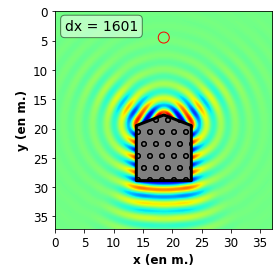
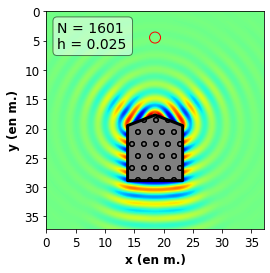
Update

diff --git a/Functions_Jie.py b/Functions_Jie.py
@@ -623,7 +623,7 @@ def Construction_A(Nx, Ny, dx, Neuf_points, k2_eau, k2_bois, gamma_eau, gamma_bo
     Coeff4 = Coeff_Frontiere(gamma_eau, gamma_bois, 0, -1)
     Coeff5 = Coeff_Frontiere(gamma_bois, gamma_eau, 1 / np.sqrt(2), -1 / np.sqrt(2))  # -ny
     Coeff6 = Coeff_Frontiere(gamma_bois, gamma_eau, 1, 0)
-    Coeff7 = Coeff_Frontiere(gamma_bois, gamma_eau, 0 / np.sqrt(2), 0 / np.sqrt(2))
+    Coeff7 = Coeff_Frontiere(gamma_bois, gamma_eau, 1 / np.sqrt(2), 1 / np.sqrt(2))
     Coeff8 = Coeff_Frontiere(gamma_bois, gamma_eau, 0, 1)
     Coeff9 = Coeff_Frontiere(gamma_eau, gamma_bois, -1 / np.sqrt(2), 1 / np.sqrt(2))
     Coeff10 = Coeff_Frontiere(gamma_eau, gamma_bois, -1, 0)
